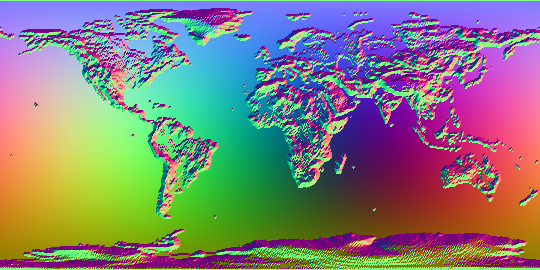
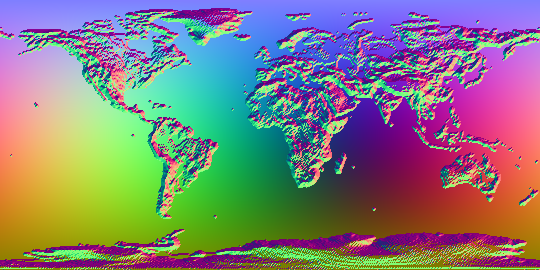
Fixed the up/down edge clamp problem

Changed region(s): [[0.0, 0.9778, 1.0, 1.0], [0.0, 0.0, 1.0, 0.0296]]

diff --git a/main.c b/main.c
@@ -31,7 +31,9 @@ int main(int argc, const char **argv) {
 			float phi = (float) y / h * M_PI;
 
 			float dx = heightmap[y * w + (x + 1) % w] - heightmap[y * w + (x - 1 + w) % w];
-			float dy = heightmap[((y + 1) % h) * w + x] - heightmap[((y - 1 + h) % h) * w + x];
+			float dy = (y == 0 || y == h - 1) 
+				? 0
+				: heightmap[(y + 1) * w + x] - heightmap[(y - 1) * w + x];
 
 			float normal[3] = {
 				sinf(phi) * cosf(theta) - dx,
